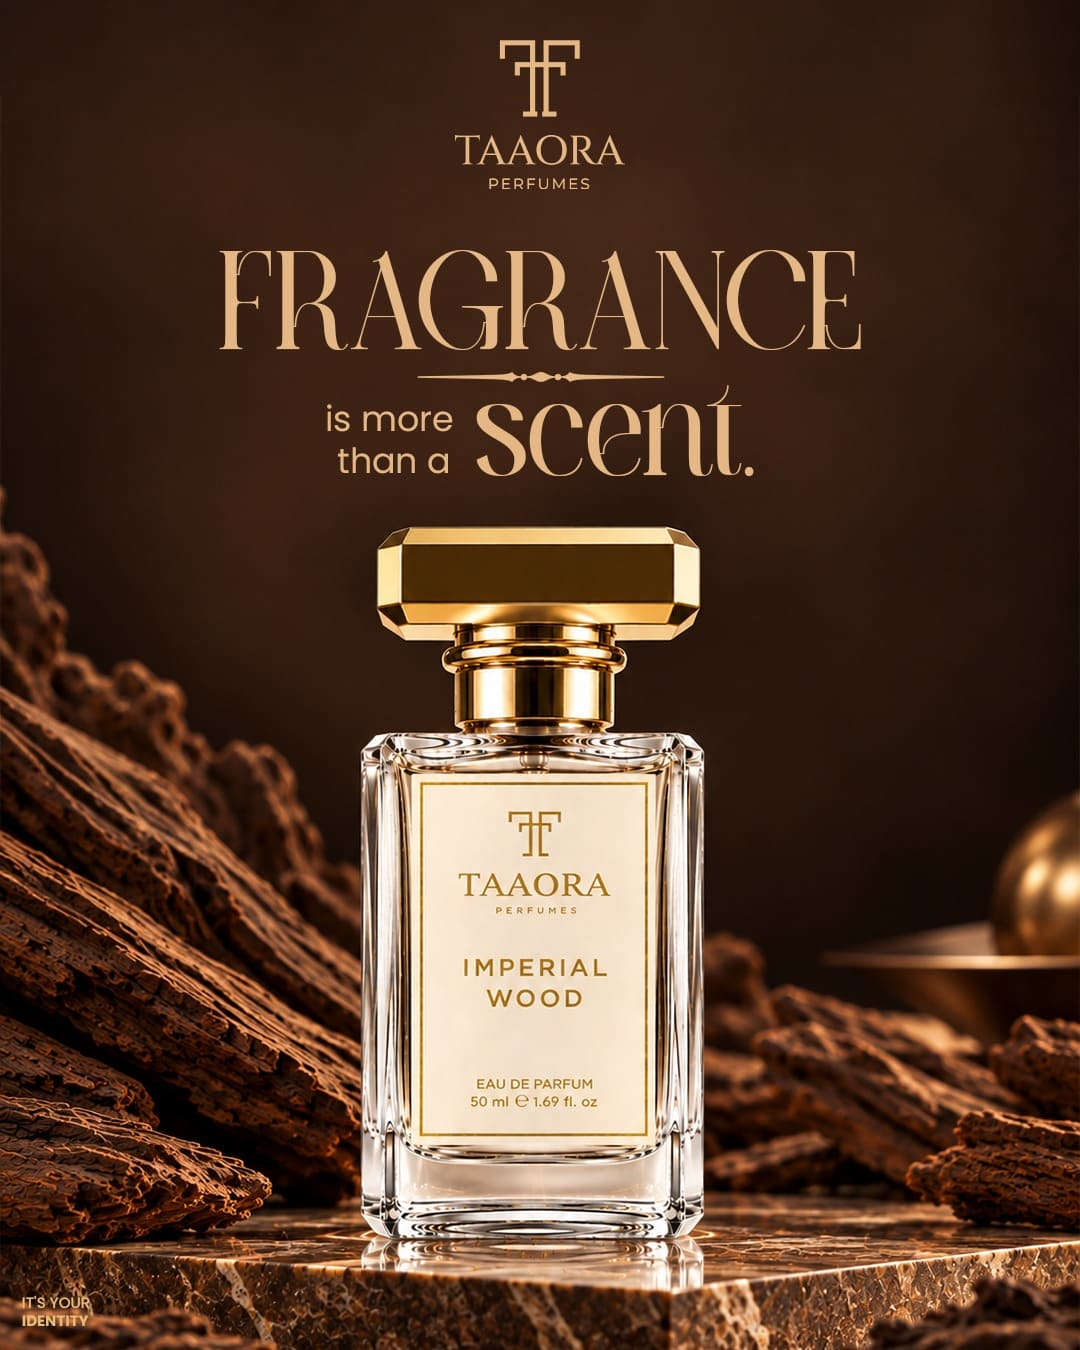
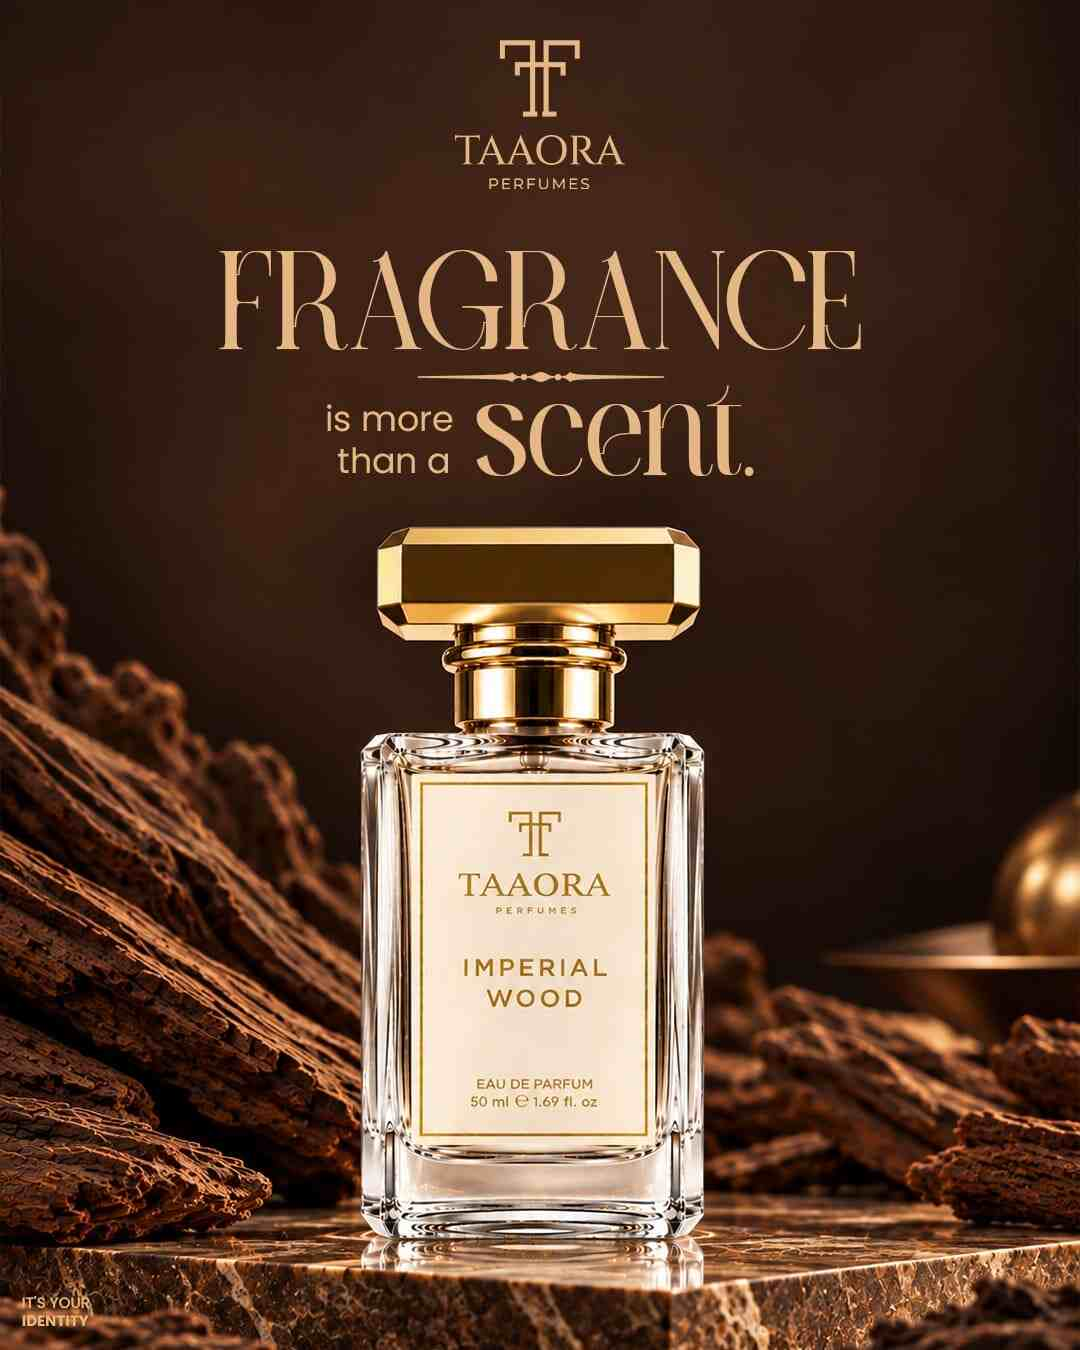
image size

diff --git a/components/AboutTaaora.tsx b/components/AboutTaaora.tsx
@@ -56,7 +56,7 @@ export default function AboutTaaora() {
               </div>
             ) : (
               <Image
-                src="/about.webp"
+                src="/about-2.webp"
                 alt="About Taaora"
                 fill
                 onError={() => setImageError(true)}
